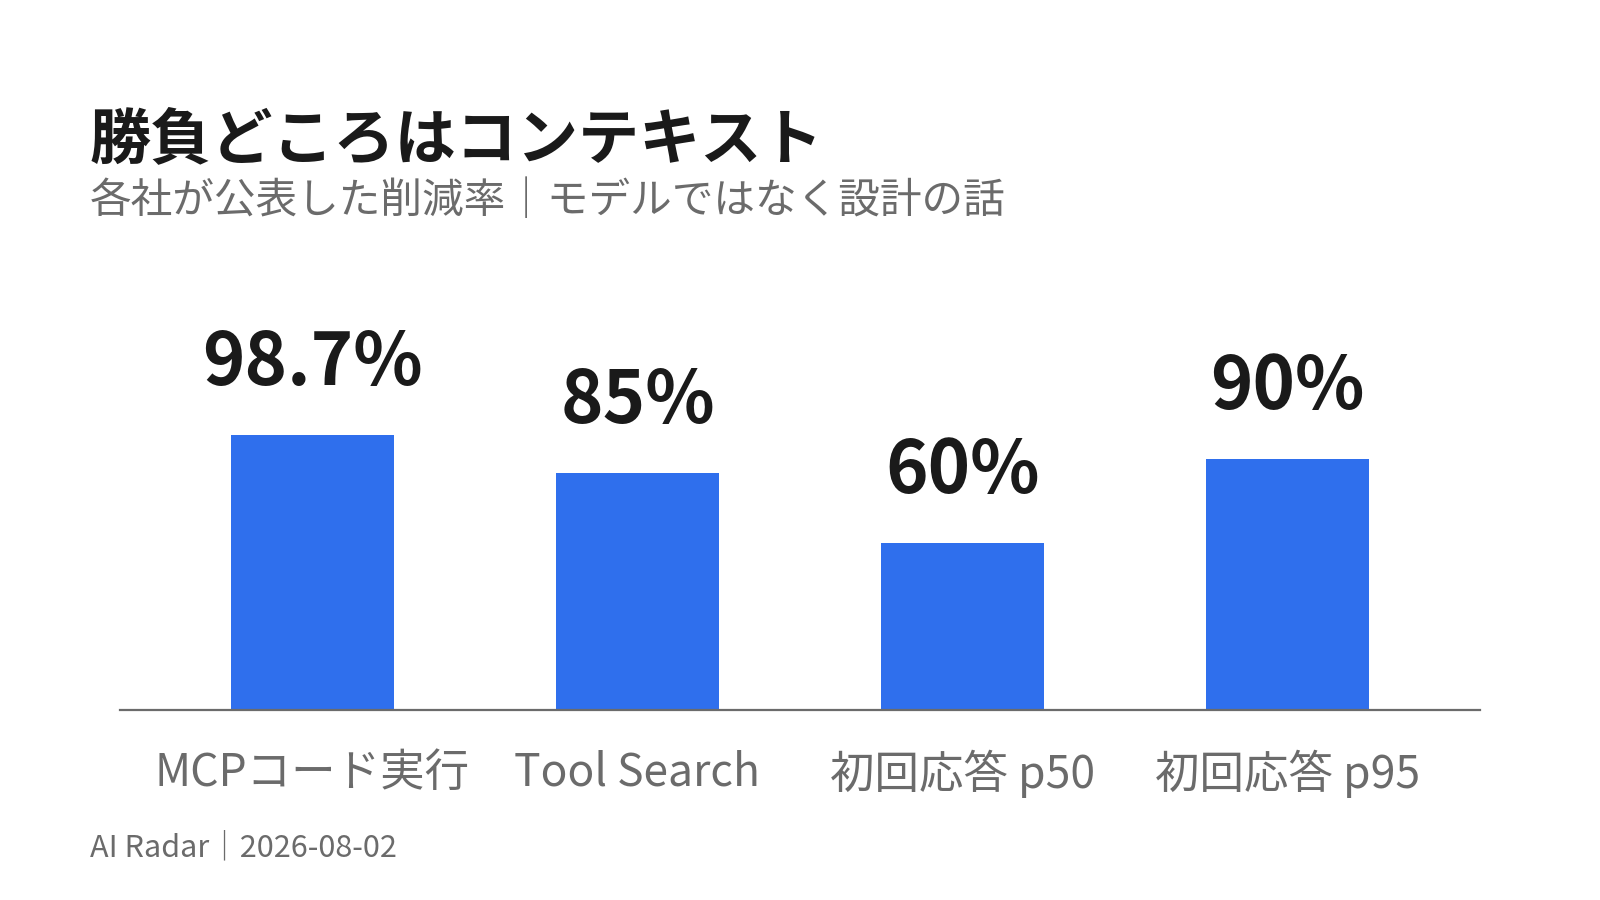
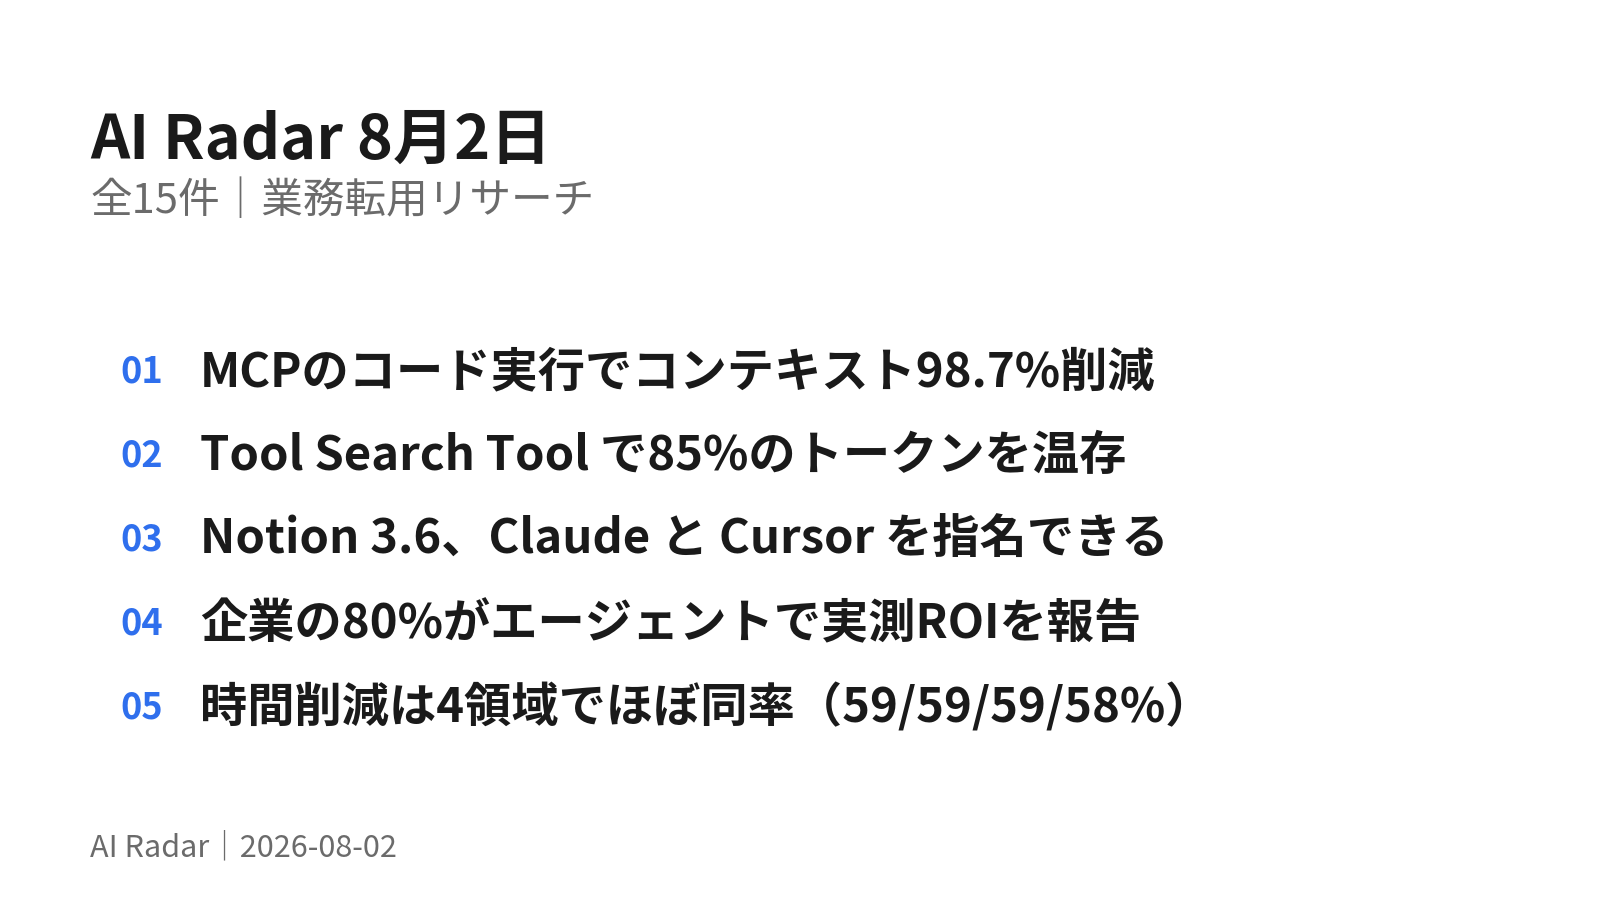
大見出しを中立なダイジェスト形式に変更、listカードを追加

diff --git a/docs/2026-08-02.html b/docs/2026-08-02.html
@@ -3,13 +3,13 @@
 <head>
 <meta charset="utf-8">
 <meta name="viewport" content="width=device-width, initial-scale=1">
-<title>勝負どころはコンテキスト｜AI Radar 2026-08-02</title>
+<title>AI Radar 8月2日｜AI Radar 2026-08-02</title>
 <meta property="og:type" content="article">
 <meta property="og:site_name" content="AI Radar — 業務転用リサーチ">
-<meta property="og:title" content="勝負どころはコンテキスト">
-<meta property="og:description" content="各社の発表を横に並べると、競争軸が「モデルの賢さ」から「コンテキストをいかに使わずに済ませるか」に移っている。 トークン98.7%削減、85%削減、初回応答60%短縮。どれも新しいモデルの話ではなく、設計の話である。 もうひとつの流れが「エージェントを人のように割り当てる」で、Notion では Claude と Cu">
+<meta property="og:title" content="AI Radar 8月2日">
+<meta property="og:description" content="全15件。うち3件（01〜03）がコンテキスト削減の話で、98.7%・85%・60%と各社が数字を出してきた。競争軸がモデルの賢さから設計に移っている。 別筋では Notion 3.6（04〜06） が、Claude と Cursor をボードから指名できるようにした。エージェントを人のように割り当てる方向。 07〜1">
 <meta property="og:url" content="https://cis1978.github.io/ai-radar/2026-08-02.html">
-<meta name="description" content="各社の発表を横に並べると、競争軸が「モデルの賢さ」から「コンテキストをいかに使わずに済ませるか」に移っている。 トークン98.7%削減、85%削減、初回応答60%短縮。どれも新しいモデルの話ではなく、設計の話である。 もうひとつの流れが「エージェントを人のように割り当てる」で、Notion では Claude と Cu">
+<meta name="description" content="全15件。うち3件（01〜03）がコンテキスト削減の話で、98.7%・85%・60%と各社が数字を出してきた。競争軸がモデルの賢さから設計に移っている。 別筋では Notion 3.6（04〜06） が、Claude と Cursor をボードから指名できるようにした。エージェントを人のように割り当てる方向。 07〜1">
 <meta property="og:image" content="https://cis1978.github.io/ai-radar/img/2026-08-02.png">
 <meta property="og:image:width" content="1600">
 <meta property="og:image:height" content="900">
@@ -164,10 +164,10 @@ footer { margin-top: 52px; padding-top: 24px; border-top: 1px solid var(--line);
 <div class="wrap">
 <article>
   <div class="kicker">AI RADAR — 業務転用リサーチ</div>
-  <h1>勝負どころはコンテキスト</h1>
+  <h1>AI Radar 8月2日</h1>
   <div class="dateline">2026年8月2日（日）</div>
   <img class="card-img" src="img/2026-08-02.png" alt="" width="1600" height="900">
-  <p class="lead">各社の発表を横に並べると、競争軸が「モデルの賢さ」から<strong>「コンテキストをいかに使わずに済ませるか」</strong>に移っている。<br>トークン98.7%削減、85%削減、初回応答60%短縮。どれも新しいモデルの話ではなく、<strong>設計の話</strong>である。<br>もうひとつの流れが「エージェントを人のように割り当てる」で、Notion では Claude と Cursor をボードから指名できるようになった。</p>
+  <p class="lead">全15件。うち<strong>3件（01〜03）がコンテキスト削減の話</strong>で、98.7%・85%・60%と各社が数字を出してきた。競争軸がモデルの賢さから設計に移っている。<br>別筋では <strong>Notion 3.6（04〜06）</strong> が、Claude と Cursor をボードから指名できるようにした。エージェントを人のように割り当てる方向。<br><strong>07〜11は調査データ</strong>、12〜13はエージェント設計の知見、14〜15は Slack と Google のアップデート。気になるものだけ開いてほしい。</p>
 <nav class="toc">
   <div class="toc-head">
     <span class="toc-title">目次 — 15件</span>

diff --git a/docs/index.html b/docs/index.html
@@ -157,7 +157,7 @@ footer { margin-top: 52px; padding-top: 24px; border-top: 1px solid var(--line);
     <p>平日の朝、AIの動向から「明日から自分の業務に使えるもの」だけを拾う。</p>
   </div>
   <a class="card" href="2026-08-03.html"><div class="d">2026-08-03</div><div class="t">Excelが「SKILL.md」を読み始めた</div></a>
-<a class="card" href="2026-08-02.html"><div class="d">2026-08-02</div><div class="t">勝負どころはコンテキスト</div></a>
+<a class="card" href="2026-08-02.html"><div class="d">2026-08-02</div><div class="t">AI Radar 8月2日</div></a>
 <a class="card" href="2026-07-30.html"><div class="d">2026-07-30</div><div class="t">スキル導入でPRが1.45倍</div></a>
 <a class="card" href="2026-07-29.html"><div class="d">2026-07-29</div><div class="t">常駐エージェント「Autopilot」の登場</div></a>
 </div>

diff --git a/scripts/make_card.py b/scripts/make_card.py
@@ -148,6 +148,31 @@ def draw_diagram(ax, nodes, hub):
             color=BG, ha="center", va="center")
 
 
+def draw_list(ax, headlines):
+    """ダイジェスト号の表紙。その日の見出しを最大5本、番号付きで並べる。"""
+    headlines = headlines[:5]
+    top, bottom = H - 330, 150
+    step = (top - bottom) / max(len(headlines), 1)
+
+    for i, text in enumerate(headlines):
+        y = top - step * (i + 0.5)
+        ax.text(120, y, f"{i + 1:02d}", fontproperties=BOLD, fontsize=26,
+                color=ACCENT, ha="left", va="center")
+        # 長い見出しは折り返す（1行あたり全角24字ぶんを目安）
+        limit = 24 * 34
+        line, w = "", 0.0
+        for ch in text:
+            cw = 34 if ord(ch) > 0x2E7F else 34 * 0.56
+            if w + cw > limit:
+                break
+            line += ch
+            w += cw
+        if len(line) < len(text):
+            line = line[:-1] + "…"
+        ax.text(200, y, line, fontproperties=BOLD, fontsize=34,
+                color=INK, ha="left", va="center")
+
+
 def draw_bar(ax, labels, values, suffix):
     """値ラベルを棒の上に大きく置く。目盛りとグリッドは出さない。"""
     labels, values = labels[:5], values[:5]
@@ -177,7 +202,7 @@ def draw_bar(ax, labels, values, suffix):
 def main():
     ap = argparse.ArgumentParser()
     ap.add_argument("date", help="YYYY-MM-DD")
-    ap.add_argument("kind", choices=["diagram", "bar"])
+    ap.add_argument("kind", choices=["diagram", "bar", "list"])
     ap.add_argument("--title", required=True, help="全角20字以内")
     ap.add_argument("--subtitle", default="")
     ap.add_argument("--nodes", nargs="*", default=[], help="diagram用（最大5）")
@@ -185,11 +210,16 @@ def main():
     ap.add_argument("--labels", nargs="*", default=[], help="bar用（最大5）")
     ap.add_argument("--values", nargs="*", type=float, default=[], help="bar用")
     ap.add_argument("--suffix", default="%", help="bar用の単位")
+    ap.add_argument("--headlines", nargs="*", default=[], help="list用（最大5本の見出し）")
     args = ap.parse_args()
 
     fig, ax = base_canvas(args.title, args.subtitle, args.date)
 
-    if args.kind == "diagram":
+    if args.kind == "list":
+        if not args.headlines:
+            ap.error("list には --headlines が必要")
+        draw_list(ax, args.headlines)
+    elif args.kind == "diagram":
         if not args.nodes or not args.hub:
             ap.error("diagram には --nodes と --hub が必要")
         draw_diagram(ax, args.nodes, args.hub)

diff --git a/scripts/build_html.py b/scripts/build_html.py
@@ -463,12 +463,13 @@ def split_item(lines):
 
 
 def headline(h1, raw, date_str):
-    if h1:
-        t = re.sub(r"AI Radar", "", h1)
-        t = re.sub(r"[—\-–]\s*\d{4}-\d{2}-\d{2}", "", t)
-        t = re.sub(r"（[^）]*）", "", t).strip(" 　—-–|｜")
-        if len(t) >= 4:
-            return t
+    """H1 をそのまま記事タイトルにする。
+
+    ダイジェスト号は H1 を「AI Radar 8月2日」のような中立な見出しにする。
+    15件を束ねる主張を大見出しに置くと、全項目がその根拠に見えてしまうため。
+    """
+    if h1 and len(h1.strip()) >= 4:
+        return h1.strip()
     for line in raw.split("\n"):
         s = line.strip()
         if s.startswith("## ") and "空振り" not in s:

diff --git a/config.md b/config.md
@@ -103,11 +103,21 @@ shujiさんが自分のMacで手動実行する用。
 
 ## 7. 原稿の書き方（issues/YYYY-MM-DD.md）
 
+**大見出しは中立にする。主張を書かない。**
+
+`# 勝負どころはコンテキスト` のような主張を大見出しに置くと、
+**下の15件がすべてその主張の根拠に見えてしまう。** 実際には独立したニュースの集まりなので嘘になる。
+これはダイジェストであって論説ではない。大見出しは `# AI Radar 8月2日` の形にする。
+
+その日に見えた傾向は「今日の一言」に書く。**そのとき何件が該当するかを明示する**こと。
+（例：「全15件。うち3件（01〜03）がコンテキスト削減の話で…」）
+
 ```markdown
-# 記事見出し（体言止め、全角20字以内）
+# AI Radar M月D日
 
 > **今日の一言**
-> リード文2〜3文。何が起きて、何が変わるのか。
+> 全N件。うち◯件（01〜03）が〜の話で、…（傾向と該当番号）
+> 別筋では〜（04〜06）。残りは〜。気になるものだけ開いてほしい。
 
 ## 1. 項目タイトル
 
@@ -159,3 +169,6 @@ shujiさんの業務にどう落とすか。具体的に1〜2行。
   HTMLを主、Slackを入口とする構成に変更。項目を「厚く3〜5件／薄く残り」の2層に分けた
 - 2026-08-02: 件数を「目標15件・**最低6件**」に変更。読みやすさ対策として
   `やさしく:` 行と用語辞典（`glossary.md`）を追加
+- 2026-08-02: 大見出しを**中立なダイジェスト形式**に変更。主張を大見出しに置くと
+  15件がその根拠に見えてしまうため。傾向は「今日の一言」に該当番号つきで書く。
+  カード画像に `list`（見出し5本を並べる表紙）を追加

diff --git a/issues/2026-08-02.md b/issues/2026-08-02.md
@@ -1,9 +1,9 @@
-# 勝負どころはコンテキスト
+# AI Radar 8月2日
 
 > **今日の一言**
-> 各社の発表を横に並べると、競争軸が「モデルの賢さ」から**「コンテキストをいかに使わずに済ませるか」**に移っている。
-> トークン98.7%削減、85%削減、初回応答60%短縮。どれも新しいモデルの話ではなく、**設計の話**である。
-> もうひとつの流れが「エージェントを人のように割り当てる」で、Notion では Claude と Cursor をボードから指名できるようになった。
+> 全15件。うち**3件（01〜03）がコンテキスト削減の話**で、98.7%・85%・60%と各社が数字を出してきた。競争軸がモデルの賢さから設計に移っている。
+> 別筋では **Notion 3.6（04〜06）** が、Claude と Cursor をボードから指名できるようにした。エージェントを人のように割り当てる方向。
+> **07〜11は調査データ**、12〜13はエージェント設計の知見、14〜15は Slack と Google のアップデート。気になるものだけ開いてほしい。
 
 ## 1. MCPのコード実行でコンテキストを98.7%削減
 
